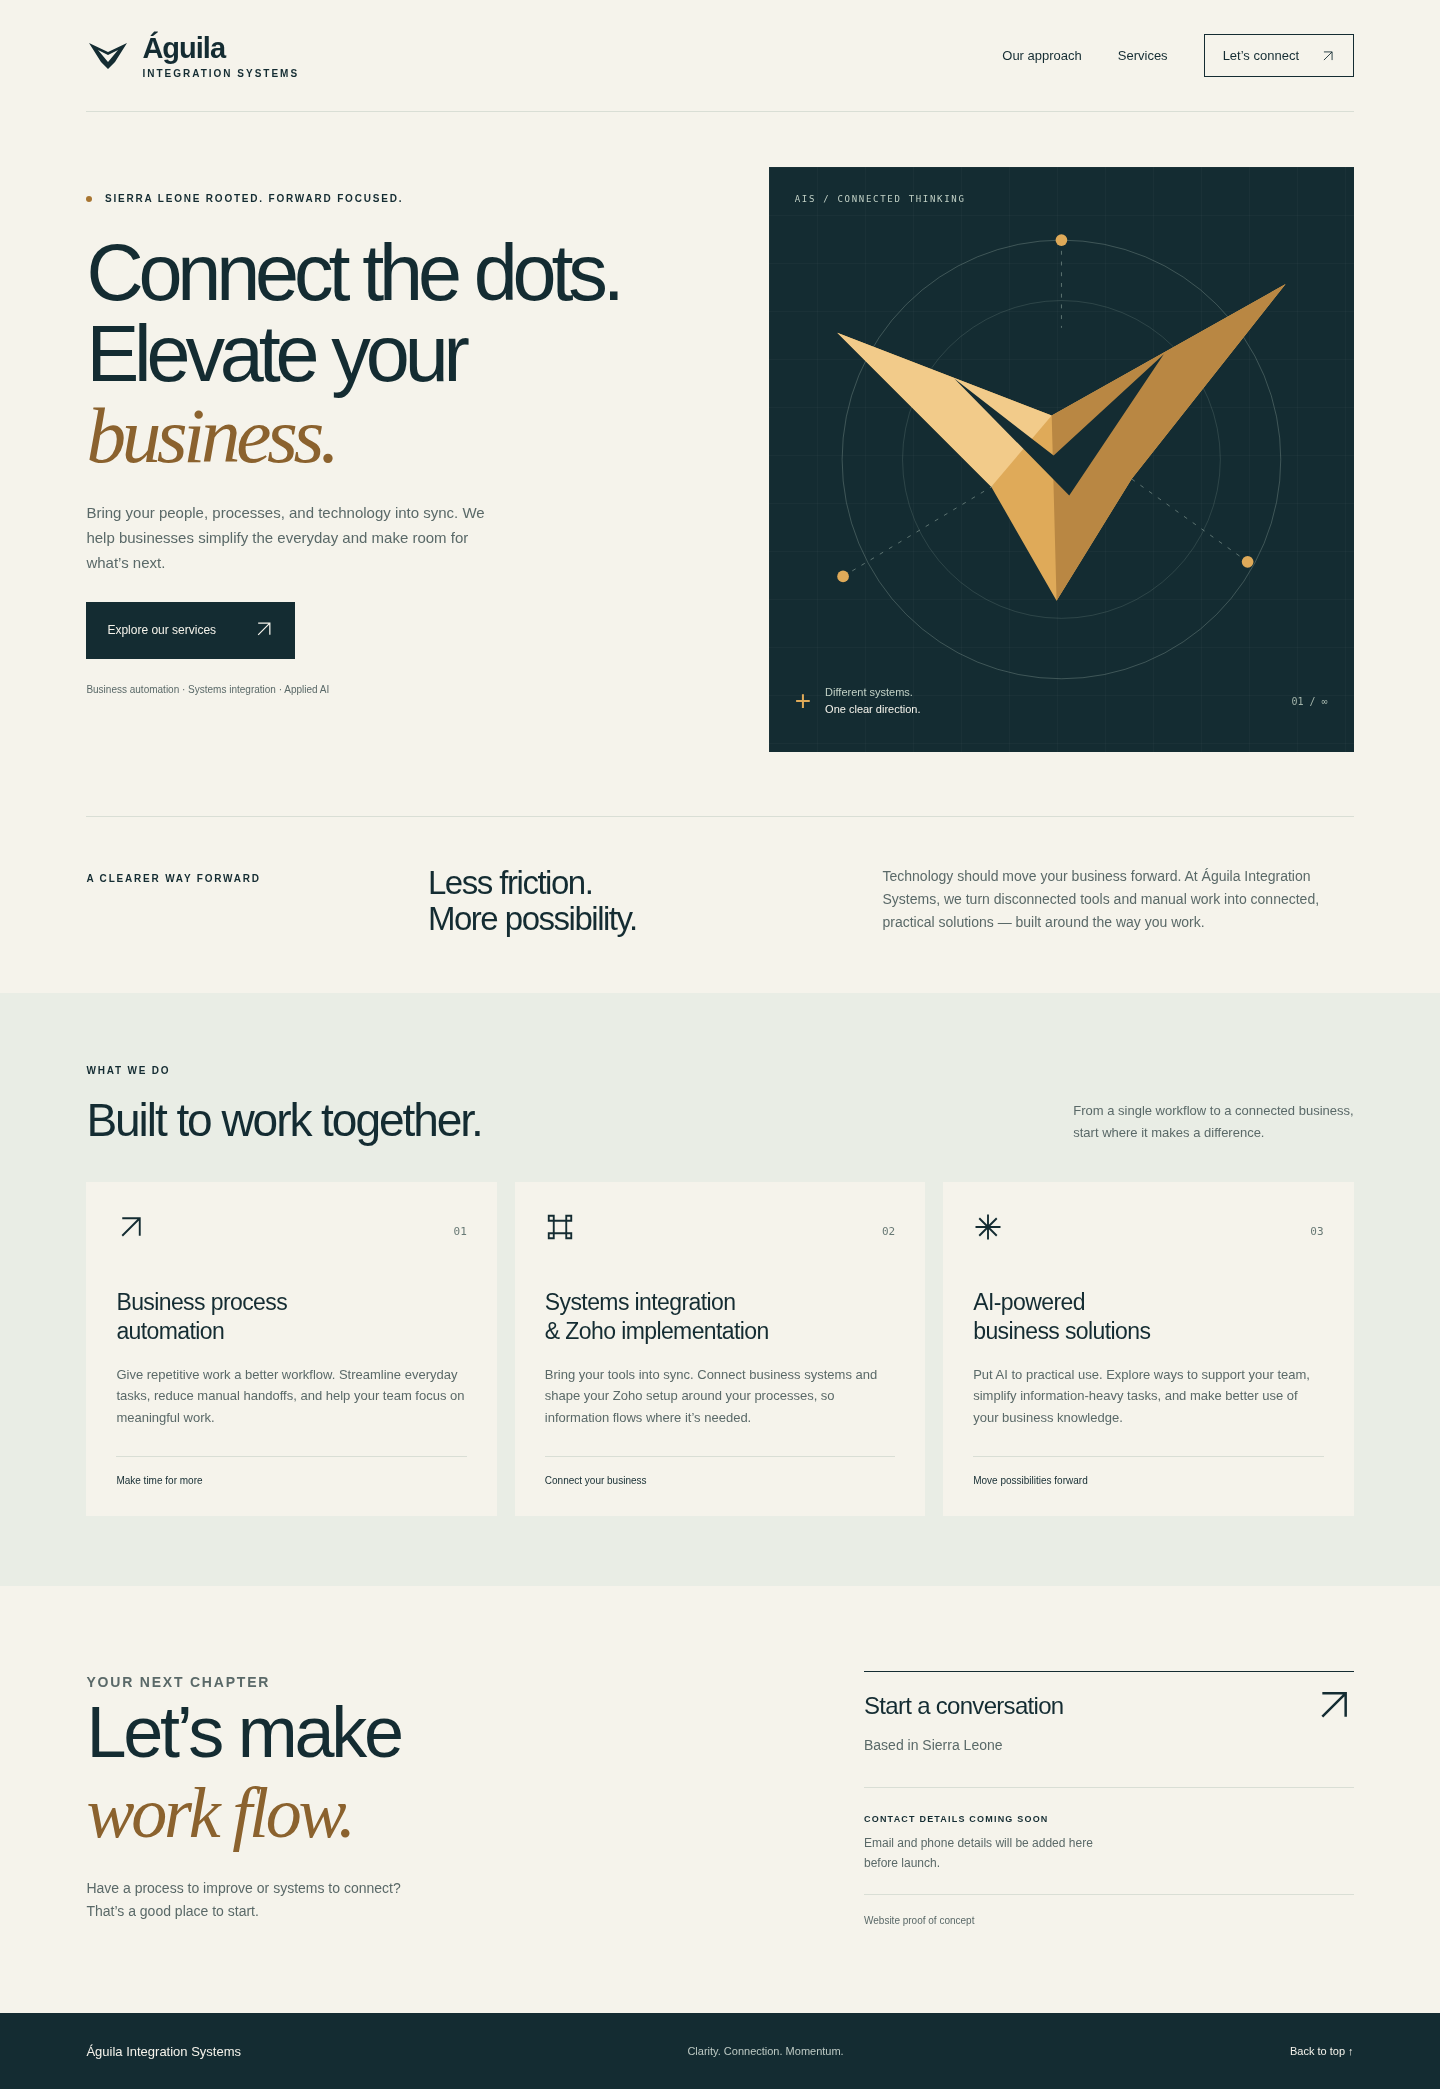
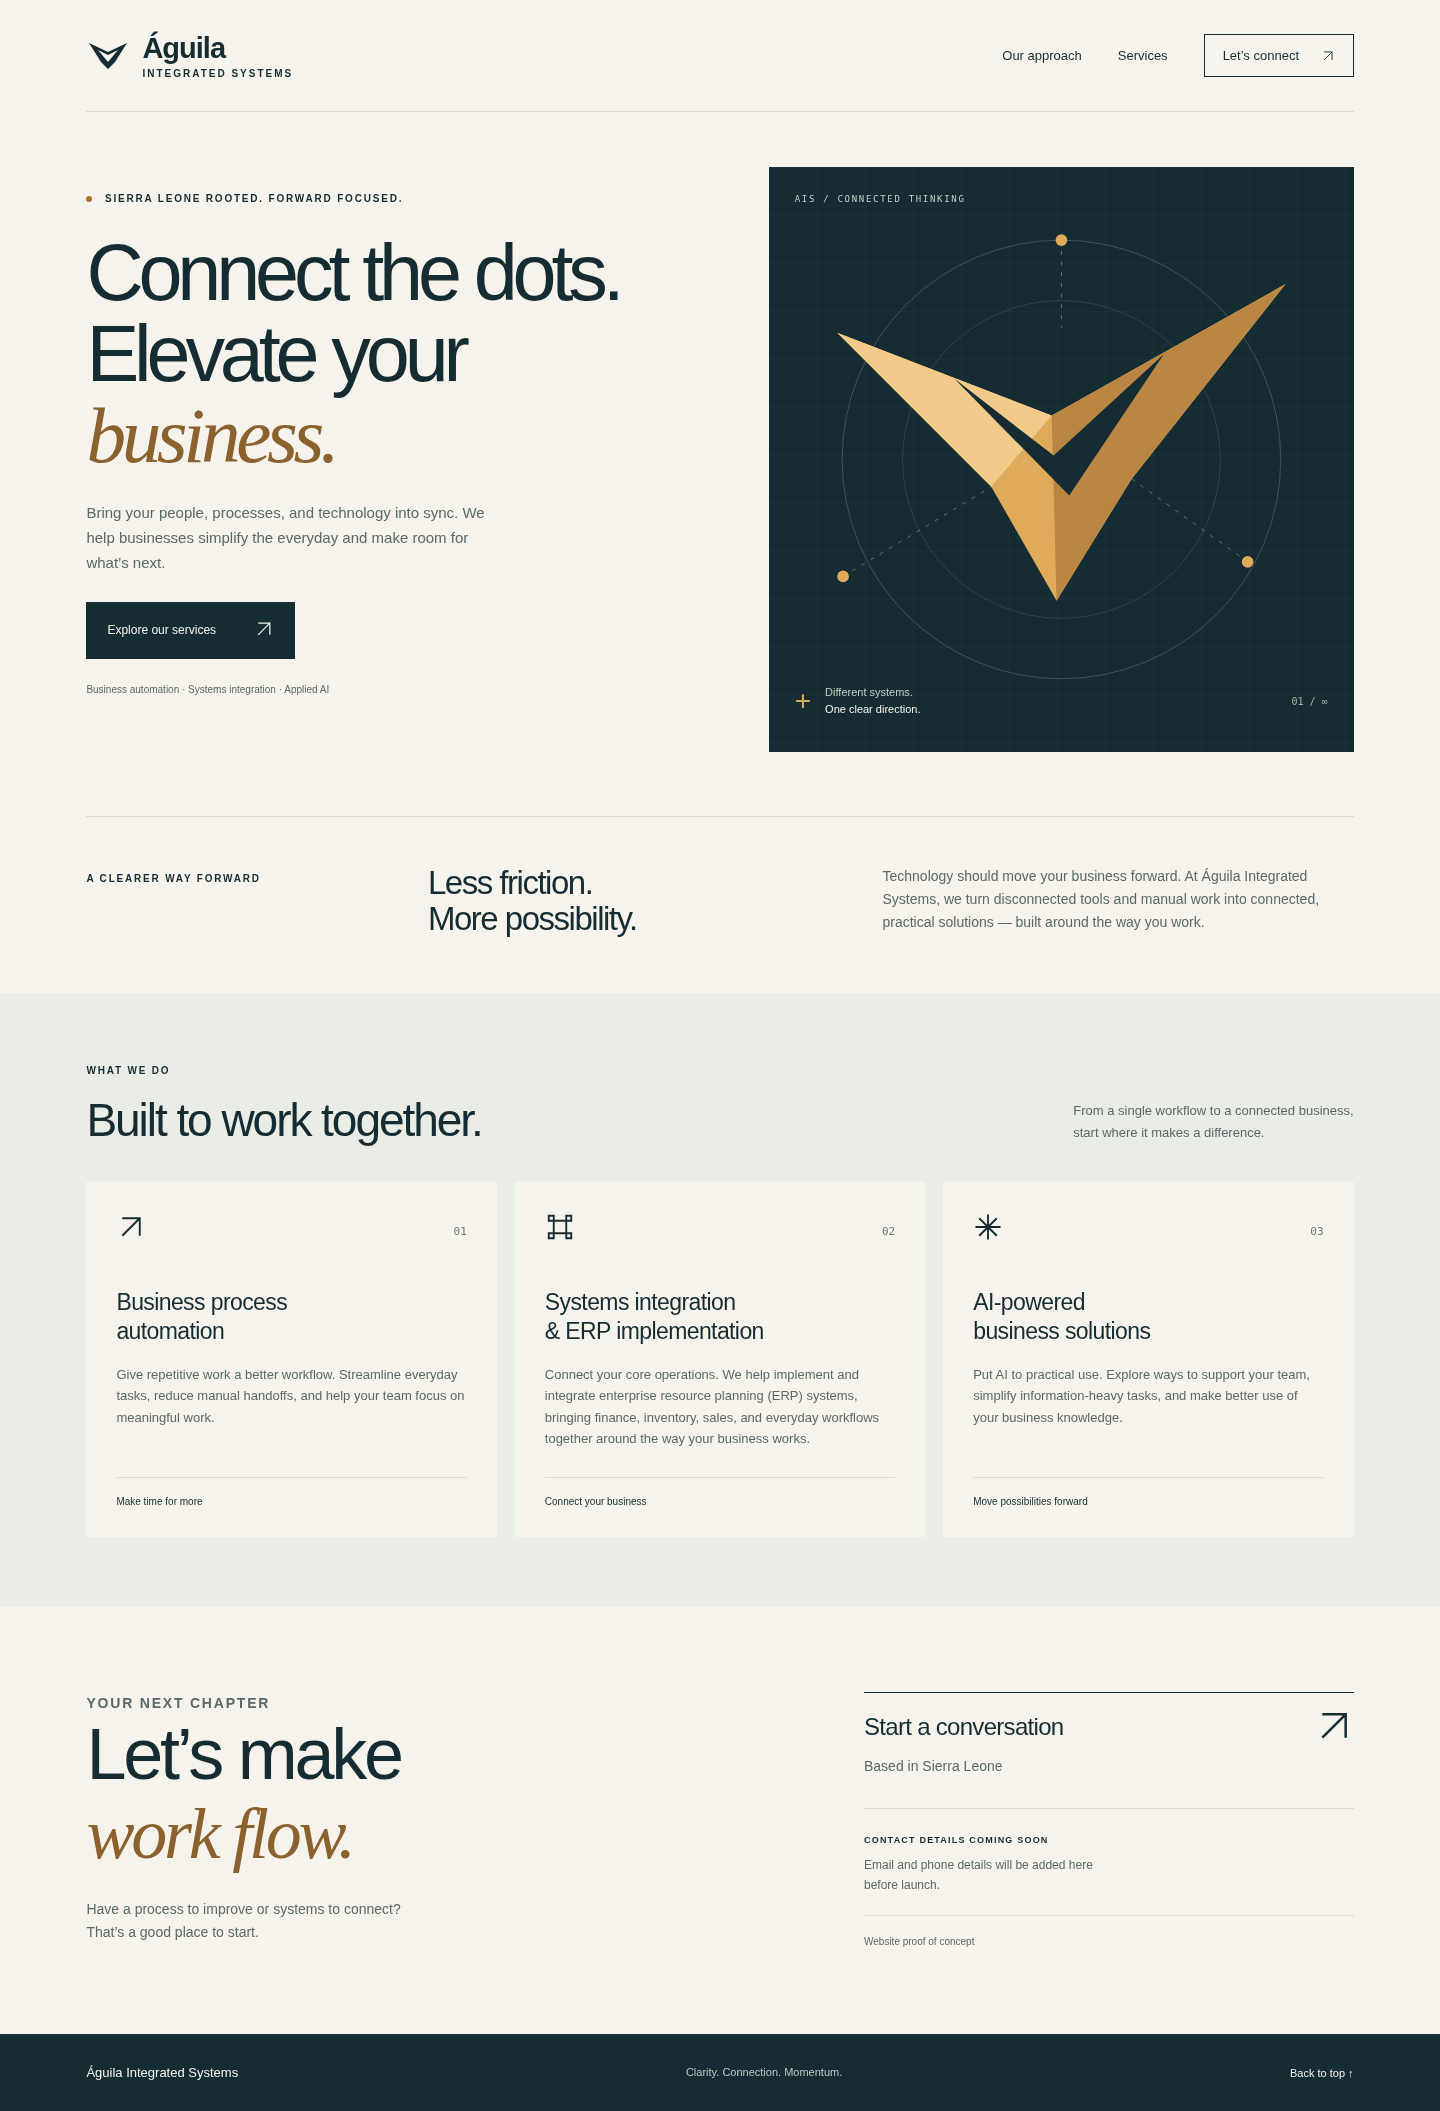
Rename company to Águila Integrated Systems

diff --git a/index.html b/index.html
@@ -3,9 +3,9 @@
 <head>
   <meta charset="utf-8">
   <meta name="viewport" content="width=device-width, initial-scale=1">
-  <meta name="description" content="Águila Integration Systems is a Sierra Leone-based technology consultancy for business automation, systems integration, ERP implementation, and AI-powered solutions.">
+  <meta name="description" content="Águila Integrated Systems is a Sierra Leone-based technology consultancy for business automation, systems integration, ERP implementation, and AI-powered solutions.">
   <meta name="theme-color" content="#142c32">
-  <title>Águila Integration Systems — Clarity. Connection. Momentum.</title>
+  <title>Águila Integrated Systems — Clarity. Connection. Momentum.</title>
   <link rel="icon" type="image/svg+xml" href="favicon.svg">
   <link rel="stylesheet" href="styles.css">
   <script src="script.js" defer></script>
@@ -13,9 +13,9 @@
 <body>
   <a class="skip-link" href="#main">Skip to content</a>
   <header class="site-header">
-    <a class="brand" href="#home" aria-label="Águila Integration Systems home">
+    <a class="brand" href="#home" aria-label="Águila Integrated Systems home">
       <svg class="brand-mark" viewBox="0 0 44 44" aria-hidden="true"><path d="M3 9 22 18 41 9 29 28 22 35 15 28Z" fill="currentColor"/><path d="m12 16 10 5 10-5-10 12Z" fill="#f5f3eb"/></svg>
-      <span>Águila <span class="brand-sub">Integration Systems</span></span>
+      <span>Águila <span class="brand-sub">Integrated Systems</span></span>
     </a>
     <nav aria-label="Main navigation">
       <a href="#approach">Our approach</a>
@@ -51,7 +51,7 @@
     <section class="approach" id="approach" aria-labelledby="approach-title">
       <p class="eyebrow">A clearer way forward</p>
       <h2 id="approach-title">Less friction.<br>More possibility.</h2>
-      <p>Technology should move your business forward. At Águila Integration Systems, we turn disconnected tools and manual work into connected, practical solutions — built around the way you work.</p>
+      <p>Technology should move your business forward. At Águila Integrated Systems, we turn disconnected tools and manual work into connected, practical solutions — built around the way you work.</p>
     </section>
     <section class="services section-pad" id="services" aria-labelledby="services-title">
       <div class="section-heading"><div><p class="eyebrow">What we do</p><h2 id="services-title">Built to work together.</h2></div><p>From a single workflow to a connected business,<br class="desktop-break"> start where it makes a difference.</p></div>
@@ -66,6 +66,6 @@
       <div class="contact-details"><span class="contact-arrow" aria-hidden="true"><svg viewBox="0 0 24 24" width="20" height="20" aria-hidden="true"><path d="M5 19 19 5M5 5h14v14" fill="none" stroke="currentColor" stroke-width="1.5"/></svg></span><h3>Start a conversation</h3><p>Based in Sierra Leone</p><div class="placeholder"><span class="eyebrow">Contact details coming soon</span><p>Email and phone details will be added here before launch.</p></div><span class="poc-label">Website proof of concept</span></div>
     </section>
   </main>
-  <footer><a href="#home" class="footer-brand">Águila Integration Systems</a><p>Clarity. Connection. Momentum.</p><a href="#home">Back to top <span aria-hidden="true">↑</span></a></footer>
+  <footer><a href="#home" class="footer-brand">Águila Integrated Systems</a><p>Clarity. Connection. Momentum.</p><a href="#home">Back to top <span aria-hidden="true">↑</span></a></footer>
 </body>
 </html>

diff --git a/AGENTS.md b/AGENTS.md
@@ -1,7 +1,7 @@
-# Águila Integration Systems website
+# Águila Integrated Systems website
 
 ## Project and audience
-This is a proof-of-concept landing page for Águila Integration Systems, a Sierra Leone-based technology consultancy specializing in business process automation, systems integration, ERP implementation, and AI-powered business solutions. It is intended to be maintained through conversational instructions to Codex by a non-developer colleague.
+This is a proof-of-concept landing page for Águila Integrated Systems, a Sierra Leone-based technology consultancy specializing in business process automation, systems integration, ERP implementation, and AI-powered business solutions. It is intended to be maintained through conversational instructions to Codex by a non-developer colleague.
 
 ## Technical stack
 - Plain UTF-8 HTML, CSS, and minimal browser JavaScript.
@@ -10,7 +10,7 @@ This is a proof-of-concept landing page for Águila Integration Systems, a Sierr
 - Hosting target: Hostinger standard static web hosting. No deployment is authorized by default.
 
 ## Branding and content
-- Always spell the full company name **Águila Integration Systems**, preserving the accented Á. Save all text as UTF-8.
+- Always spell the full company name **Águila Integrated Systems**, preserving the accented Á. Save all text as UTF-8.
 - Use a professional, clear, approachable tone. Navy, ivory, muted green, and amber form the palette, defined in CSS variables.
 - Subtle eagle geometry, connections, precision, and forward movement guide the design. The SVG is a concept mark, not an approved final logo.
 - Never invent testimonials, customers, contact details, certifications, or credentials. Keep missing details explicitly labelled as placeholders.

diff --git a/README.md b/README.md
@@ -1,4 +1,4 @@
-# Águila Integration Systems
+# Águila Integrated Systems
 
 A responsive static website proof of concept. There is no backend, build process, dependency installation, analytics, or external asset request.
 
